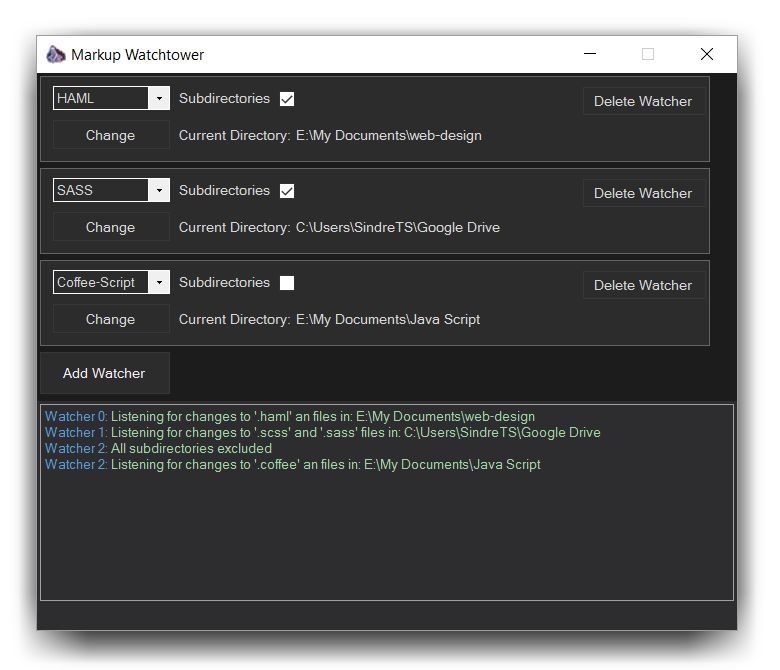
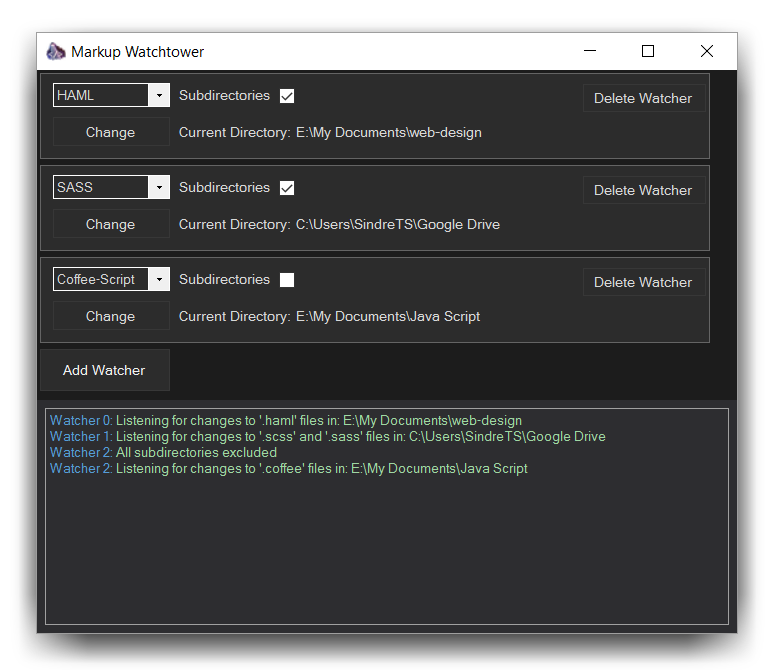
Fixed format error in watcher output message.

diff --git a/com/main/WatcherWindow.Designer.cs b/com/main/WatcherWindow.Designer.cs
@@ -49,8 +49,8 @@
             this.splitContainer1.Panel2.BackColor = System.Drawing.Color.FromArgb(((int)(((byte)(45)))), ((int)(((byte)(45)))), ((int)(((byte)(48)))));
             this.splitContainer1.Panel2.Controls.Add(this.layoutPanelBottom);
             this.splitContainer1.Panel2.Margin = new System.Windows.Forms.Padding(3, 0, 3, 0);
-            this.splitContainer1.Size = new System.Drawing.Size(700, 557);
-            this.splitContainer1.SplitterDistance = 322;
+            this.splitContainer1.Size = new System.Drawing.Size(700, 563);
+            this.splitContainer1.SplitterDistance = 326;
             this.splitContainer1.TabIndex = 0;
             this.splitContainer1.TabStop = false;
             // 
@@ -61,7 +61,7 @@
             this.layoutMainTop.Dock = System.Windows.Forms.DockStyle.Fill;
             this.layoutMainTop.Location = new System.Drawing.Point(0, 0);
             this.layoutMainTop.Name = "layoutMainTop";
-            this.layoutMainTop.Size = new System.Drawing.Size(700, 322);
+            this.layoutMainTop.Size = new System.Drawing.Size(700, 326);
             this.layoutMainTop.TabIndex = 0;
             // 
             // btnAdd
@@ -92,7 +92,7 @@
             this.layoutPanelBottom.Padding = new System.Windows.Forms.Padding(8);
             this.layoutPanelBottom.RowCount = 1;
             this.layoutPanelBottom.RowStyles.Add(new System.Windows.Forms.RowStyle(System.Windows.Forms.SizeType.Percent, 50F));
-            this.layoutPanelBottom.Size = new System.Drawing.Size(700, 231);
+            this.layoutPanelBottom.Size = new System.Drawing.Size(700, 233);
             this.layoutPanelBottom.TabIndex = 0;
             this.layoutPanelBottom.TabStop = true;
             // 
@@ -100,10 +100,10 @@
             // 
             this.AutoScaleMode = System.Windows.Forms.AutoScaleMode.None;
             this.BackColor = System.Drawing.Color.FromArgb(((int)(((byte)(28)))), ((int)(((byte)(28)))), ((int)(((byte)(28)))));
-            this.ClientSize = new System.Drawing.Size(700, 557);
+            this.ClientSize = new System.Drawing.Size(700, 563);
             this.Controls.Add(this.splitContainer1);
             this.Icon = ((System.Drawing.Icon)(resources.GetObject("$this.Icon")));
-            this.MinimumSize = new System.Drawing.Size(718, 604);
+            this.MinimumSize = new System.Drawing.Size(718, 610);
             this.Name = "WatcherWindow";
             this.SizeGripStyle = System.Windows.Forms.SizeGripStyle.Hide;
             this.Text = "Markup Watchtower";

diff --git a/com/main/MarkupWatcher.cs b/com/main/MarkupWatcher.cs
@@ -144,12 +144,8 @@ namespace MarkupWatchtower.com.main
             {
                 files = files.Remove(j, 2);
                 files = files.Insert(j, " and ");
-            } else
-            {
-                files = files.Remove(i, 2);
-                files = files.Insert(i, " and ");
             }
-            files = files.Remove(files.Length - 2);
+            files = files.Remove(files.Length-2, 2);
             Console.WriteLine("Listening for changes to " + files + " files in: " + pathToFolder);
             Output("Listening for changes to " + files + " files in: " + pathToFolder + "\n");
         }
